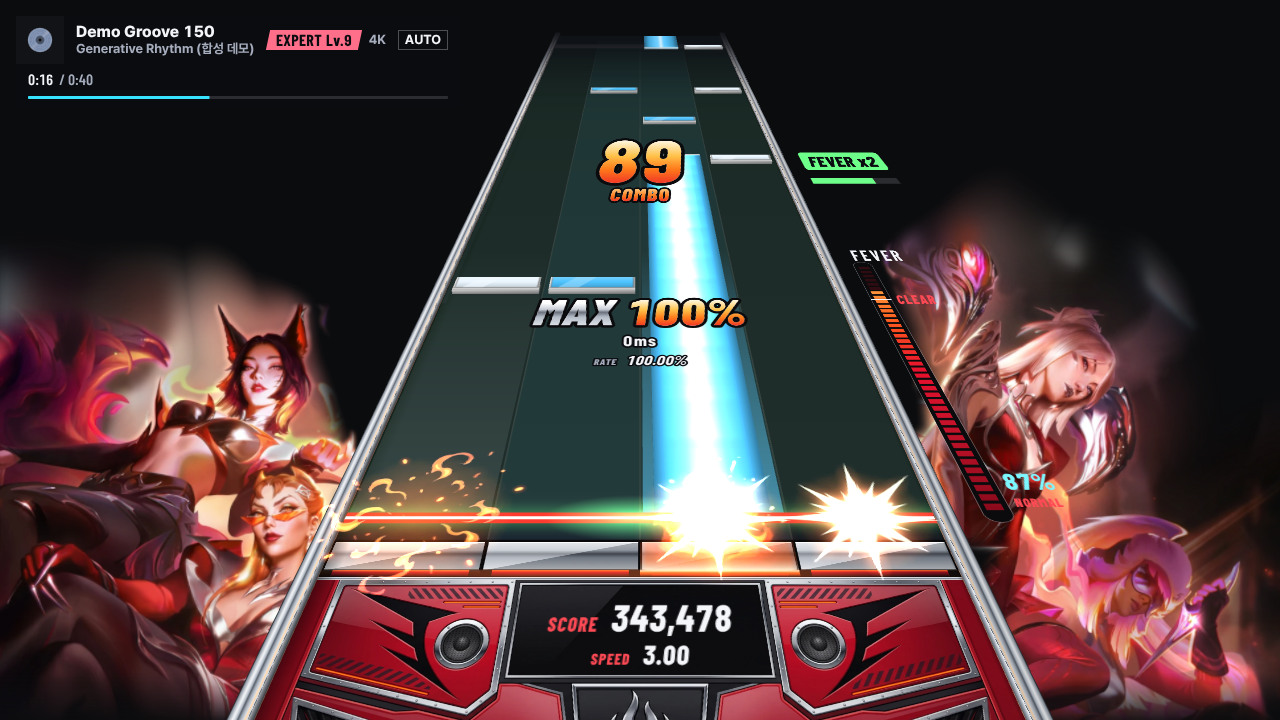
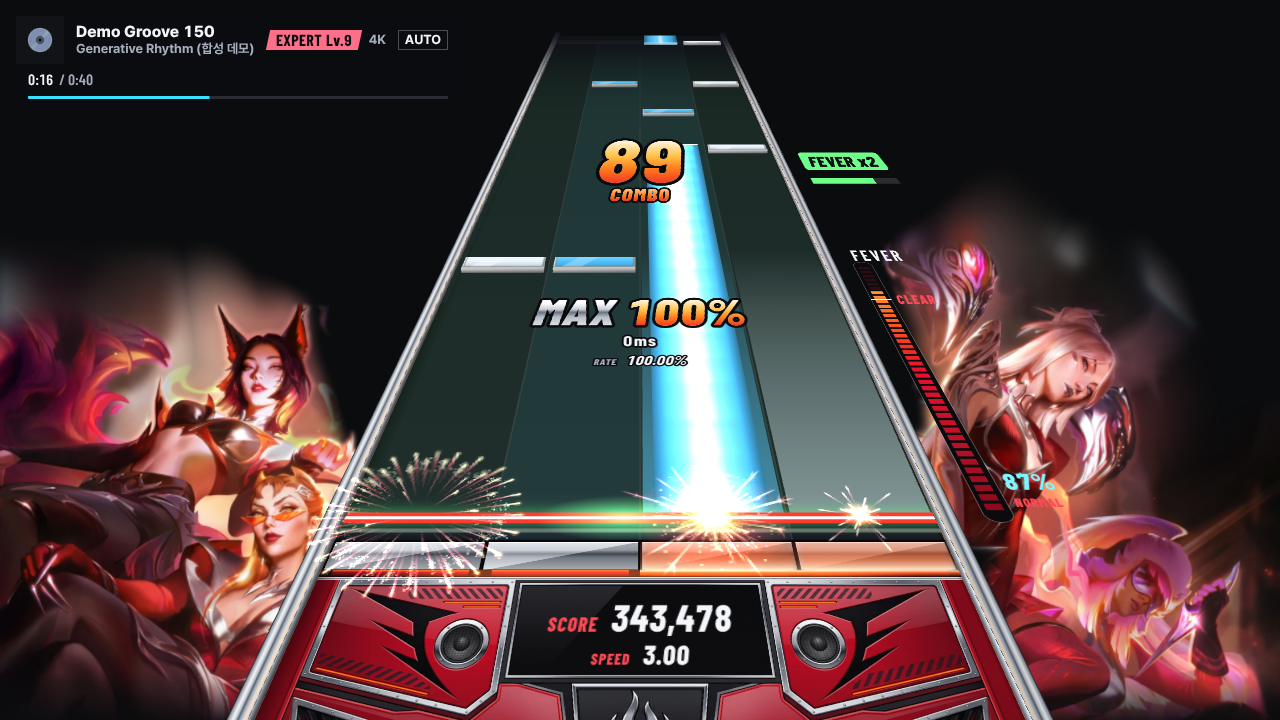
The Firestarter skin's hit is a firework, and its light while a long note is held a sparkler
The user on the first picture (flame tongues, a fireball and embers in molten orange): "Firestarter
should feel like fireworks, and it looks like lava".

- scripts/assets/make_skin_fx.py: the hit's prompt asks for a firework shell bursting, made only of
  thin streaks and points of light (crimson and hot pink streaks with white-gold heads, then gold
  glitter that twinkles out), and the held light's for a sparkler's spray of fine forked sparks;
  no flame, fireball, blob or smoke in either.
- client/public/media/fx/fire_burst.webp (11 frames in 0.32 s) and fire_hold.webp are built from
  the sheets picked of two tries each.
- The hit's name in the settings is 불꽃놀이 (it was 불꽃).
- The design notes have the user's words and what the effect is now; the provenance record names
  the tries and their prompts, and the first picture it replaces. Screenshots 56-58 are retaken.

Claude-Session: https://claude.ai/code/session_01NJ81Brr5tCyummEicE23PB

diff --git a/client/src/ui/SettingsScreen.tsx b/client/src/ui/SettingsScreen.tsx
@@ -567,7 +567,7 @@ export function SettingsScreen({
             onChange={(v) => {
               if (v !== CUSTOM_SKIN) onSettingsChange({ ...settings, parts: withSkin(settings.parts, v), hudType: 'gear' });
             }}
-            help="기어, 노트, 타격 효과, 판정·콤보 글자를 한 벌로 한 번에 바꿉니다. 기본은 그래파이트 기어에 직각 막대 노트와 플래시, 크리스털은 크리스털 기어에 유리 막대 노트와 크리스털 분광, 면으로 깎은 글자, 하늘은 하늘 기어에 둥근 무광 막대 노트와 구름 깃털, 둥글고 기울어진 글자, 파이어스타터는 크롬과 빨간 래커의 기어에 크롬 테를 두른 유광 막대 노트와 불꽃, 달아오른 금속빛 글자, GPT는 청록 채팅창 기어에 로고 모양 노트와 물방울 왕관, 깔끔한 고딕 글자, Gemini는 파랑·보라·분홍 빛이 번지는 어두운 기어에 로고 모양 노트와 반짝임, 둥근 고딕 글자, Grok은 별이 뿌려진 검은 기어에 로고 모양 노트와 엑스 섬광, 고정폭 글자, Claude는 크림색 종이 기어에 로고 모양 노트와 붓 빛살, 세리프 글자, 아쿠아는 흰 장갑판과 청록 유리의 메카 기어에 모서리를 깎은 장갑판 노트와 록온, 각진 기울어진 글자, 스틸은 슬레이트 하드웨어 기어에 무광 키캡 모양 노트와 십자 섬광, 둥근 고딕 글자, 무지개는 흰 종이와 사탕색 기어에 유광 사탕 막대 노트와 색종이, 풍선 글자, 레드라인은 검정과 빨강 그래픽 기어에 한 모서리를 자른 납작한 노트와 글리치, 각진 넓은 글자, 크림슨은 검은 장갑판과 진분홍 띠의 메카 기어에 양끝이 뾰족한 장갑판 노트와 파편 섬광, 키 큰 기울어진 글자, 화이트 라인은 흰 선 그림의 검은 기어에 선으로 그린 노트와 선 불꽃, 속이 빈 윤곽선 글자, 별밤은 별 지도의 남색 기어에 작은 별이 박힌 모따기 노트와 별빛, 우아한 로마자 글자입니다(파이어스타터는 기어 양옆에 멤버들의 일러스트가 서고, 그 뒤의 네 스킨은 기어 하단 양옆에 그 회사의 콘 둘이 붙으며 노트는 그 회사의 로고 모양입니다). 사이드 노트와 화면 왼쪽 위의 곡 정보는 스킨과 상관없이 그대로이고, 레인도 어두운 바닥 그대로입니다(하늘은 받침의 하늘이 레인에 아주 옅게 깔립니다). 아래의 기어·판정·콤보 글꼴·타격 효과나 노트 탭의 노트를 따로 바꾸면 직접 고름으로 표시됩니다."
+            help="기어, 노트, 타격 효과, 판정·콤보 글자를 한 벌로 한 번에 바꿉니다. 기본은 그래파이트 기어에 직각 막대 노트와 플래시, 크리스털은 크리스털 기어에 유리 막대 노트와 크리스털 분광, 면으로 깎은 글자, 하늘은 하늘 기어에 둥근 무광 막대 노트와 구름 깃털, 둥글고 기울어진 글자, 파이어스타터는 크롬과 빨간 래커의 기어에 크롬 테를 두른 유광 막대 노트와 불꽃놀이, 달아오른 금속빛 글자, GPT는 청록 채팅창 기어에 로고 모양 노트와 물방울 왕관, 깔끔한 고딕 글자, Gemini는 파랑·보라·분홍 빛이 번지는 어두운 기어에 로고 모양 노트와 반짝임, 둥근 고딕 글자, Grok은 별이 뿌려진 검은 기어에 로고 모양 노트와 엑스 섬광, 고정폭 글자, Claude는 크림색 종이 기어에 로고 모양 노트와 붓 빛살, 세리프 글자, 아쿠아는 흰 장갑판과 청록 유리의 메카 기어에 모서리를 깎은 장갑판 노트와 록온, 각진 기울어진 글자, 스틸은 슬레이트 하드웨어 기어에 무광 키캡 모양 노트와 십자 섬광, 둥근 고딕 글자, 무지개는 흰 종이와 사탕색 기어에 유광 사탕 막대 노트와 색종이, 풍선 글자, 레드라인은 검정과 빨강 그래픽 기어에 한 모서리를 자른 납작한 노트와 글리치, 각진 넓은 글자, 크림슨은 검은 장갑판과 진분홍 띠의 메카 기어에 양끝이 뾰족한 장갑판 노트와 파편 섬광, 키 큰 기울어진 글자, 화이트 라인은 흰 선 그림의 검은 기어에 선으로 그린 노트와 선 불꽃, 속이 빈 윤곽선 글자, 별밤은 별 지도의 남색 기어에 작은 별이 박힌 모따기 노트와 별빛, 우아한 로마자 글자입니다(파이어스타터는 기어 양옆에 멤버들의 일러스트가 서고, 그 뒤의 네 스킨은 기어 하단 양옆에 그 회사의 콘 둘이 붙으며 노트는 그 회사의 로고 모양입니다). 사이드 노트와 화면 왼쪽 위의 곡 정보는 스킨과 상관없이 그대로이고, 레인도 어두운 바닥 그대로입니다(하늘은 받침의 하늘이 레인에 아주 옅게 깔립니다). 아래의 기어·판정·콤보 글꼴·타격 효과나 노트 탭의 노트를 따로 바꾸면 직접 고름으로 표시됩니다."
           />
           <Choice
             {...row}
@@ -597,7 +597,7 @@ export function SettingsScreen({
             defaultValue={d.parts.hit}
             options={PART_CHOICES.hit}
             onChange={(v) => setPart('hit', v)}
-            help="노트를 치거나 롱노트를 누르고 있을 때의 효과 모양입니다. 플래시·플레어·거품·LED 그리드, 스킨의 것(크리스털 분광, 하늘의 구름 깃털, 파이어스타터의 불꽃, GPT의 물방울 왕관, Gemini의 반짝임, Grok의 엑스 섬광, Claude의 붓 빛살, 아쿠아의 록온, 스틸의 십자 섬광, 무지개의 색종이, 레드라인의 글리치, 크림슨의 파편 섬광, 화이트 라인의 선 불꽃, 별밤의 별빛)과 세트마다 하나(메카 섬광·클럽 링·크리스털 파편·네온 아크·피아노 음표)가 있고, 모두 판정선 위로는 짧게만 남아 내려오는 노트를 가리지 않습니다(LED 그리드는 판정선 아래에만). 크기는 연출·배경 탭의 타격 효과 크기에서 정합니다."
+            help="노트를 치거나 롱노트를 누르고 있을 때의 효과 모양입니다. 플래시·플레어·거품·LED 그리드, 스킨의 것(크리스털 분광, 하늘의 구름 깃털, 파이어스타터의 불꽃놀이, GPT의 물방울 왕관, Gemini의 반짝임, Grok의 엑스 섬광, Claude의 붓 빛살, 아쿠아의 록온, 스틸의 십자 섬광, 무지개의 색종이, 레드라인의 글리치, 크림슨의 파편 섬광, 화이트 라인의 선 불꽃, 별밤의 별빛)과 세트마다 하나(메카 섬광·클럽 링·크리스털 파편·네온 아크·피아노 음표)가 있고, 모두 판정선 위로는 짧게만 남아 내려오는 노트를 가리지 않습니다(LED 그리드는 판정선 아래에만). 크기는 연출·배경 탭의 타격 효과 크기에서 정합니다."
           />
           <Choice
             {...row}

diff --git a/client/src/ui/optionRows.test.ts b/client/src/ui/optionRows.test.ts
@@ -55,7 +55,7 @@ describe('the skin row', () => {
     expect([SKIN_NAMES.default, DECK_NAMES.standard, NOTE_NAMES.flat]).toEqual(['기본', '기본', '기본']);
     expect([SKIN_NAMES.crystal, DECK_NAMES.prism, NOTE_NAMES.prism, HIT_NAMES.prism]).toEqual(['크리스털', '크리스털', '크리스털', '크리스털 분광']);
     expect([SKIN_NAMES.sky, DECK_NAMES.sky, NOTE_NAMES.sky, HIT_NAMES.sky]).toEqual(['하늘', '하늘', '하늘', '구름 깃털']);
-    expect([SKIN_NAMES.fire, DECK_NAMES.fire, NOTE_NAMES.fire, HIT_NAMES.fire]).toEqual(['파이어스타터', '파이어스타터', '파이어스타터', '불꽃']);
+    expect([SKIN_NAMES.fire, DECK_NAMES.fire, NOTE_NAMES.fire, HIT_NAMES.fire]).toEqual(['파이어스타터', '파이어스타터', '파이어스타터', '불꽃놀이']);
     for (const [id, name] of [['gpt', 'GPT'], ['gemini', 'Gemini'], ['grok', 'Grok'], ['claude', 'Claude']] as const) expect([SKIN_NAMES[id], DECK_NAMES[id], NOTE_NAMES[id]]).toEqual([name, name, name]);
     expect([HIT_NAMES.gpt, HIT_NAMES.gemini, HIT_NAMES.grok, HIT_NAMES.claude]).toEqual(['물방울 왕관', '반짝임', '엑스 섬광', '붓 빛살']);
     expect([SKIN_NAMES.aqua, DECK_NAMES.aqua, NOTE_NAMES.aqua, HIT_NAMES.aqua]).toEqual(['아쿠아', '아쿠아', '아쿠아', '록온']);

diff --git a/client/e2e/phase3.spec.ts b/client/e2e/phase3.spec.ts
@@ -639,7 +639,7 @@ test('a skin picked in one row of the 기어 tab: its gear, its notes, its hit a
   await page.keyboard.press('ArrowRight');
   await expect(skin).toHaveAttribute('data-value', 'fire');
   await expect(skin).toContainText('파이어스타터');
-  await expect(page.getByTestId('opt-hit-style')).toContainText('불꽃');
+  await expect(page.getByTestId('opt-hit-style')).toContainText('불꽃놀이');
   await expect.poll(async () => (await stored()).parts).toEqual({ note: 'fire', side: 'dots', deck: 'fire', hit: 'fire' });
   // the four AI companies' skins after it, each its own gear, notes and hit under the company's name
   for (const [id, name, hit] of [

diff --git a/client/src/ui/optionRows.tsx b/client/src/ui/optionRows.tsx
@@ -65,7 +65,7 @@ export const DECK_NAMES: Record<GearStyle, string> = {
 export const HIT_NAMES: Record<HitStyle, string> = {
   prism: '크리스털 분광',
   sky: '구름 깃털',
-  fire: '불꽃',
+  fire: '불꽃놀이',
   gpt: '물방울 왕관',
   gemini: '반짝임',
   grok: '엑스 섬광',

diff --git a/scripts/assets/make_skin_fx.py b/scripts/assets/make_skin_fx.py
@@ -173,13 +173,18 @@ FX = {
          "only a few small twinkling stars and specks of glitter are left, drifting outward and fading;",
          "almost nothing, the last one or two faint twinkles; frame 16 is black."],
     ),
+    # a firework, not a fire: the user's word on the first one (flame tongues in molten orange) was "it should feel like
+    # fireworks, and it looks like lava"
     "fire": (
-        "a fiery impact burst, white-hot at its core, molten orange and deep red toward its edges. It is light and fire only.",
-        ["a tiny white-hot point snaps open into a blinding star-shaped flash;",
-         "the flash blows outward into an irregular ring of licking flame tongues and thick, tapered sparks shooting out in all directions, the core still white;",
-         "the flame ring keeps expanding and tears apart into separate curling wisps of fire, the sparks fly further and stretch into thin streaks, glowing embers tumble, the core dims to orange;",
-         "only thin wisps, a few drifting embers and fading streaks are left, getting smaller and darker red;",
-         "almost nothing, the last two or three dying embers; frame 16 is black."],
+        "a FIREWORK shell bursting in a black night sky, as a firework looks in a short-exposure photograph: it is made ONLY of thin "
+        "straight streaks of light and tiny points of light. Crimson red and hot magenta-pink streaks with brilliant white-gold heads, "
+        "and gold glitter. There is NO flame, NO fire tongue, NO fireball, NO blob, NO cloud, NO smoke and NO lava anywhere: every "
+        "element is a fine line or a small sparkling dot, bright and crisp enough to read when the picture is shown small.",
+        ["a tiny white-gold point snaps open into a small blinding star with a first circle of very short thin streaks around it;",
+         "the shell bursts: sixty or more thin straight streaks shoot out radially in every direction and fill a round chrysanthemum, each streak with a brilliant white-gold bead at its head and a fine tapering crimson or hot-pink tail behind it, streaks of different lengths; the white core shrinks to a small glint;",
+         "the streaks reach their full length and their tails fade from the centre outward, so the middle of the burst is empty and black and the firework is a hollow sphere of bright heads; the heads slow down, begin to droop very slightly, and start to crackle, each breaking into a cluster of tiny twinkling gold and white glitter sparks;",
+         "only the crackling glitter is left, in a broken ring: tiny gold and white four-ray twinkles and pin-point sparks that blink on and off at different places in every frame, fewer and dimmer in each frame, a few of them falling a little;",
+         "almost nothing, the last two or three faint twinkles; frame 16 is black."],
     ),
 }
 
@@ -213,9 +218,11 @@ HOLD = {
     "sky": ("a small ball of warm sunlight in white, pale cyan and sky blue.",
             "a soft, bright, round white core with a sky-blue glow stays in the centre",
             "small wisps of white cloud curl and drift around the core, short soft sun rays turn slowly, and one or two tiny white feathers and sparkles float up and away in every frame"),
-    "fire": ("a small roaring flame, white-hot at its core, molten orange and deep red at its edges. It is light and fire only.",
-             "a white-hot core stays in the centre",
-             "tongues of orange flame lick outward in all directions with a different shape in every frame, and small glowing embers and short sparks fly off"),
+    "fire": ("the burning tip of a hand-held SPARKLER firework seen up close: a spray of thin sparks, made ONLY of fine straight lines and "
+             "tiny points of light, white-gold at the centre and crimson red and hot magenta-pink toward the ends. There is NO flame, NO "
+             "fire tongue, NO fireball, NO blob, NO smoke and NO lava anywhere.",
+             "a small brilliant white-gold core stays in the centre",
+             "dozens of hair-thin straight sparks spray out from it in all directions, many of them forking at their ends into two or three tiny branches as a sparkler's sparks do, with different directions and lengths in every frame, and tiny gold glitter points twinkle on and off around it"),
     "gpt": ("a bead of liquid light in emerald-teal green (#10a37f) and white, seen from above.",
             "a bright round white bead with a teal glow stays in the centre",
             "thin ripple rings pulse outward from the bead one after another, and small round droplets of teal light hop around it at different places in every frame"),

diff --git a/docs/GEAR_NOTE_FX.md b/docs/GEAR_NOTE_FX.md
@@ -9,7 +9,7 @@
 | 기본 | 기어 "기본" · 노트 "기본" · 타격 효과 "플래시" | 구현. 처음 시작하는 기본값 |
 | 크리스털 (레퍼런스 1) | 기어 "크리스털" · 노트 "크리스털" · 타격 효과 "크리스털 분광" | 구현 |
 | 하늘 (레퍼런스 2) | 기어 "하늘" · 노트 "하늘" · 타격 효과 "구름 깃털" | 구현 (시안 `r2-skin-sky-c3.jpg`) |
-| 파이어스타터 (스킨 3, 사용자 지정 컨셉) | 기어 "파이어스타터" · 노트 "파이어스타터" · 타격 효과 "불꽃" | 구현 (시안 `r2-skin-fire-b.jpg`). 기어 양옆에 멤버들의 일러스트가 섬 |
+| 파이어스타터 (스킨 3, 사용자 지정 컨셉) | 기어 "파이어스타터" · 노트 "파이어스타터" · 타격 효과 "불꽃놀이" | 구현 (시안 `r2-skin-fire-b.jpg`). 기어 양옆에 멤버들의 일러스트가 섬 |
 | GPT · Gemini · Grok · Claude (스킨 4, 사용자 지정: AI 회사 네 곳) | 각각 같은 이름의 기어 · 노트 · 타격 효과(물방울 왕관 / 반짝임 / 엑스 섬광 / 붓 빛살) | 구현 (시안 `r2-skin-gpt2.jpg`, `-gemini`, `-grok`, `-claude`). 노트는 회사 로고 모양, 기어 하단 양옆에 그 회사의 콘 둘 |
 | 아쿠아 (레퍼런스 5: 청록·분홍 메카) | 기어 "아쿠아" · 노트 "아쿠아" · 타격 효과 "록온" | 구현 (시안 `r2-skin-aqua.jpg`) |
 | 스틸 (레퍼런스 6: 회색 기계) | 기어 "스틸" · 노트 "스틸" · 타격 효과 "십자 섬광" | 구현 (시안 `r2-skin-steel.jpg`) |
@@ -26,14 +26,14 @@
 - 효과마다 Gemini가 **16프레임(4×4)의 프레임별 애니메이션 시트**를 그립니다: 치는 순간 한 장, 롱노트를 누르는 동안(반복) 한 장. 프레임마다 다른 그림이라 불꽃이 갈라지고 파편이 돌며 흩어집니다.
 - 치는 순간은 **0.32초**에 끝납니다(프레임 9~12장을 28~37fps로). 거의 빈 첫 프레임은 빼서 키를 누르는 순간 섬광이 바로 보입니다. 누르는 동안은 24fps 반복입니다.
 - 스킨의 효과는 제 색 그대로 화면에 더하고(매니페스트 `plain`), 기본 스킨의 플래시만 흰빛에 레인 색을 입힙니다.
-- 이름이 바뀐 것: 파이어스타터 "불똥" → "불꽃", GPT "입력 중 점" → "물방울 왕관", Grok "펜 엑스" → "엑스 섬광"(굵은 획과 가는 획이 엇갈린 X가 번쩍이고 깨져 흩어짐), Claude "손 빛살" → "붓 빛살", 화이트 라인 "선 고리" → "선 불꽃".
+- 이름이 바뀐 것: 파이어스타터 "불똥" → "불꽃놀이"(처음에는 "불꽃": 아래), GPT "입력 중 점" → "물방울 왕관", Grok "펜 엑스" → "엑스 섬광"(굵은 획과 가는 획이 엇갈린 X가 번쩍이고 깨져 흩어짐), Claude "손 빛살" → "붓 빛살", 화이트 라인 "선 고리" → "선 불꽃".
 
 | 스킨 | 치는 순간 | 누르는 동안 |
 |---|---|---|
 | 기본 "플래시" | 별 모양 섬광 → 전기가 튀는 충격파 고리 → 가는 호와 반짝임 | 흰 심지 둘레에 전기 줄기 |
 | 크리스털 "크리스털 분광" | 마름모 섬광 → 무지개 변이 난 수정 조각이 사방으로 깨져 날아감 | 마름모 빛과 분광 반짝임 |
 | 하늘 "구름 깃털" | 햇살 → 구름 고리가 부풀며 흰 깃털이 날림 | 햇빛 공과 감도는 구름 |
-| 파이어스타터 "불꽃" | 흰 섬광 → 불꽃 고리와 굵은 불똥 → 휘감기는 불씨 | 타오르는 작은 불꽃 |
+| 파이어스타터 "불꽃놀이" | 흰 금빛 점이 터져 진홍·분홍 빛줄기(머리는 흰 금빛 구슬)가 둥글게 퍼지고, 줄기가 사라진 자리에서 금빛 반짝이가 깜빡이다 사라짐 | 스파클러: 흰 금빛 심에서 끝이 갈라지는 가는 불티가 사방으로 튐 |
 | GPT "물방울 왕관" | 청록 빛이 왕관 모양으로 튀어 오르고 물결 고리가 퍼짐 | 청록 구슬과 번지는 물결 |
 | Gemini "반짝임" | 네 갈래 큰 별 → 파랑 · 보라 · 분홍의 작은 별들이 흩어져 깜빡임 | 깜빡이는 네 갈래 별 |
 | Grok "엑스 섬광" | 두 획이 엇갈려 X가 되고 번쩍인 뒤 모난 조각으로 깨져 날아감(흑백) | 깜빡이는 작은 X |
@@ -45,6 +45,8 @@
 | 크림슨 "파편 섬광" | X자 베기 섬광 → 진홍 칼날 조각과 휘는 호 | 사방으로 찌르는 진홍 가시 |
 | 화이트 라인 "선 불꽃" | 가는 흰 선으로 그린 불꽃놀이가 피었다 떨어짐 | 다시 그려지는 선 별 |
 | 별밤 "별빛" | 금빛 별 → 별가루와 작은 별들이 흩어져 깜빡임 | 깜빡이는 금빛 별과 별가루 |
+
+사용자 의견(2026-11-11, 위 효과들을 본 뒤): "Firestarter는 불꽃놀이 느낌이 나야하는데 용암같다". 처음 그림은 녹은 주황색 불덩이와 휘감기는 불길, 불씨였습니다(프롬프트가 "molten orange"의 불이었음). 그래서 파이어스타터의 효과를 **불꽃놀이**로 다시 그렸습니다: 불길·불덩이·연기 없이 가는 빛줄기와 빛점만으로, 치는 순간은 국화 모양으로 터지는 불꽃놀이(진홍·분홍 줄기, 흰 금빛 머리, 금빛 반짝이), 누르는 동안은 스파클러입니다. 이름도 "불꽃"에서 "불꽃놀이"로 바꿨습니다.
 
 코드: `scripts/assets/make_skin_fx.py`(프롬프트와 생성), `scripts/assets/build_skin_fx.py`(검정 정리 · 가장자리 흐림 · 프레임 고르기 · 0.32초 맞춤 → `client/public/media/fx/`), `styleArt.ts`의 `HIT_ART`(스킨의 효과 이름 → 매니페스트 id, 기본 스킨은 `basic`), `skinArt.ts`의 `MediaTexture.plain` · `cored`, `TrackRenderer.ts`의 `tinge`(제 색 플립북은 흰색으로 그대로 더함). 출처와 프롬프트: `assets-src/PROVENANCE.md`.
 
@@ -141,7 +143,7 @@ PRISM 1차 구현에서 바뀐 것: 기어(검은 아노다이징 알루미늄·
 | 판정선 | 흰 심에 붉은 빛(달군 철사) |
 | 단노트 | 직각 유광 막대: 레인 색 래커에 빛 한 줄, 양끝에 가는 크롬, 판정선에 닿는 변에 크롬 턱(가장 밝음). 스크래치는 가운데에 흰 // |
 | 롱노트 | 레인 색의 달군 유리관: 양옆이 어둡고 가운데에 흰 줄. 누르면 더 밝고 흰 줄이 굵어지며 빛납니다. **끝은 수평으로 반듯하게** 자릅니다(시안의 사선 절단면은 쓰지 않음: 사용자 지시) |
-| 타격 효과 | "불똥": 판정선에 흰 섬광이 번쩍하고 가는 불똥 여덟 줄이 위와 양옆으로 튑니다(머리는 흰빛, 뒤는 주황, 꼬리는 빨강). 고리도 연기도 없고, 노트를 가릴 만큼 넓은 것이 없습니다 |
+| 타격 효과 | 그림은 "불꽃놀이"(위 "타격 효과는 그림으로 그린 프레임 애니메이션" 절). 그림이 없을 때의 코드 그림 "불똥": 판정선에 흰 섬광이 번쩍하고 가는 불똥 여덟 줄이 위와 양옆으로 튑니다(머리는 흰빛, 뒤는 주황, 꼬리는 빨강). 고리도 연기도 없고, 노트를 가릴 만큼 넓은 것이 없습니다 |
 | 글자 | Barlow Condensed ExtraBold Italic. 콤보 숫자는 위가 흰빛, 주황을 지나 발끝이 빨강(검은 외곽선), COMBO도 같은 열기. "MAX"는 크롬(가운데 어두운 수평선), 퍼센트는 같은 열기에서 낮을수록 호박색·장밋빛·잿빛, BREAK는 차가운 강철색 |
 | 게이지 | 검은 캡슐 안의 칸이 아래 짙은 빨강에서 위로 주황, 주황빛 흰색으로 달아오릅니다. 이름은 FEVER |
 | 조명 | 키캡 밑의 불이 박자마다 세집니다. FEVER에서는 래커가 박자마다 조금 더 달아오릅니다 |

diff --git a/assets-src/PROVENANCE.md b/assets-src/PROVENANCE.md
@@ -2045,24 +2045,25 @@
 
 ### `styles/skinfx/fire_burst.jpg` · `fire_hold.jpg` (파이어스타터)
 
-- 치는 순간: 2026-11-11 14:06 UTC · PNG 3,603,055바이트 · sha256 앞 16자리 `4889d098a6893898` · 저장한 JPEG 362,901바이트 → `fx/fire_burst.webp` 1536×1536(127,524바이트), 9프레임 · 28.1fps
-- 누르는 동안: 2026-11-11 14:17 UTC · PNG 4,144,443바이트 · sha256 앞 16자리 `02e9dc3be826a192` · 저장한 JPEG 420,893바이트 → `fx/fire_hold.webp` 1024×1024(89,994바이트), 16프레임 · 24fps 반복
+- 치는 순간: 2026-11-11 15:56 UTC · PNG 4,030,333바이트 · sha256 앞 16자리 `aaa00b658bbb8bc4` · 저장한 JPEG 487,615바이트 → `fx/fire_burst.webp` 1536×1536(210,256바이트), 11프레임 · 34.4fps
+- 누르는 동안: 2026-11-11 15:56 UTC · PNG 5,159,266바이트 · sha256 앞 16자리 `d860f482dd0fa855` · 저장한 JPEG 725,038바이트 → `fx/fire_hold.webp` 1024×1024(185,972바이트), 16프레임 · 24fps 반복
+- 두 번째 그림입니다. 처음 것(치는 순간 2026-11-11 14:06 UTC · sha256 앞 16자리 `4889d098a6893898`, 누르는 동안 14:17 UTC · `02e9dc3be826a192`)은 "a fiery impact burst, white-hot at its core, molten orange and deep red toward its edges"와 "a small roaring flame"으로 뽑은 녹은 주황색 불덩이와 불길이었고, 사용자가 "Firestarter는 불꽃놀이 느낌이 나야하는데 용암같다"고 해서 버렸습니다. 불꽃놀이로 프롬프트를 다시 써서 치는 순간 2장 · 누르는 동안 2장을 뽑았고, 치는 순간은 둘째 장(시작에 흰 섬광이 있고 반짝이가 네 갈래 별 모양), 누르는 동안은 첫째 장(불티가 가늘고 많아 스파클러에 더 가까움)을 골랐습니다.
 - 치는 순간의 효과와 움직임:
 
-  > THE EFFECT: a fiery impact burst, white-hot at its core, molten orange and deep red toward its edges. It is light and fire only.
+  > THE EFFECT: a FIREWORK shell bursting in a black night sky, as a firework looks in a short-exposure photograph: it is made ONLY of thin straight streaks of light and tiny points of light. Crimson red and hot magenta-pink streaks with brilliant white-gold heads, and gold glitter. There is NO flame, NO fire tongue, NO fireball, NO blob, NO cloud, NO smoke and NO lava anywhere: every element is a fine line or a small sparkling dot, bright and crisp enough to read when the picture is shown small.
   >
   > THE ANIMATION, one continuous motion across the 16 frames:
-  > - frames 1-2: a tiny white-hot point snaps open into a blinding star-shaped flash;
-  > - frames 3-5: the flash blows outward into an irregular ring of licking flame tongues and thick, tapered sparks shooting out in all directions, the core still white;
-  > - frames 6-10: the flame ring keeps expanding and tears apart into separate curling wisps of fire, the sparks fly further and stretch into thin streaks, glowing embers tumble, the core dims to orange;
-  > - frames 11-14: only thin wisps, a few drifting embers and fading streaks are left, getting smaller and darker red;
-  > - frames 15-16: almost nothing, the last two or three dying embers; frame 16 is black.
+  > - frames 1-2: a tiny white-gold point snaps open into a small blinding star with a first circle of very short thin streaks around it;
+  > - frames 3-5: the shell bursts: sixty or more thin straight streaks shoot out radially in every direction and fill a round chrysanthemum, each streak with a brilliant white-gold bead at its head and a fine tapering crimson or hot-pink tail behind it, streaks of different lengths; the white core shrinks to a small glint;
+  > - frames 6-10: the streaks reach their full length and their tails fade from the centre outward, so the middle of the burst is empty and black and the firework is a hollow sphere of bright heads; the heads slow down, begin to droop very slightly, and start to crackle, each breaking into a cluster of tiny twinkling gold and white glitter sparks;
+  > - frames 11-14: only the crackling glitter is left, in a broken ring: tiny gold and white four-ray twinkles and pin-point sparks that blink on and off at different places in every frame, fewer and dimmer in each frame, a few of them falling a little;
+  > - frames 15-16: almost nothing, the last two or three faint twinkles; frame 16 is black.
 
 - 누르는 동안의 효과와 움직임:
 
-  > THE EFFECT: a small roaring flame, white-hot at its core, molten orange and deep red at its edges. It is light and fire only.
+  > THE EFFECT: the burning tip of a hand-held SPARKLER firework seen up close: a spray of thin sparks, made ONLY of fine straight lines and tiny points of light, white-gold at the centre and crimson red and hot magenta-pink toward the ends. There is NO flame, NO fire tongue, NO fireball, NO blob, NO smoke and NO lava anywhere.
   >
-  > THE ANIMATION: in every frame a white-hot core stays in the centre, while tongues of orange flame lick outward in all directions with a different shape in every frame, and small glowing embers and short sparks fly off.
+  > THE ANIMATION: in every frame a small brilliant white-gold core stays in the centre, while dozens of hair-thin straight sparks spray out from it in all directions, many of them forking at their ends into two or three tiny branches as a sparkler's sparks do, with different directions and lengths in every frame, and tiny gold glitter points twinkle on and off around it.
 
 ### `styles/skinfx/gpt_burst.jpg` · `gpt_hold.jpg` (GPT)
 
